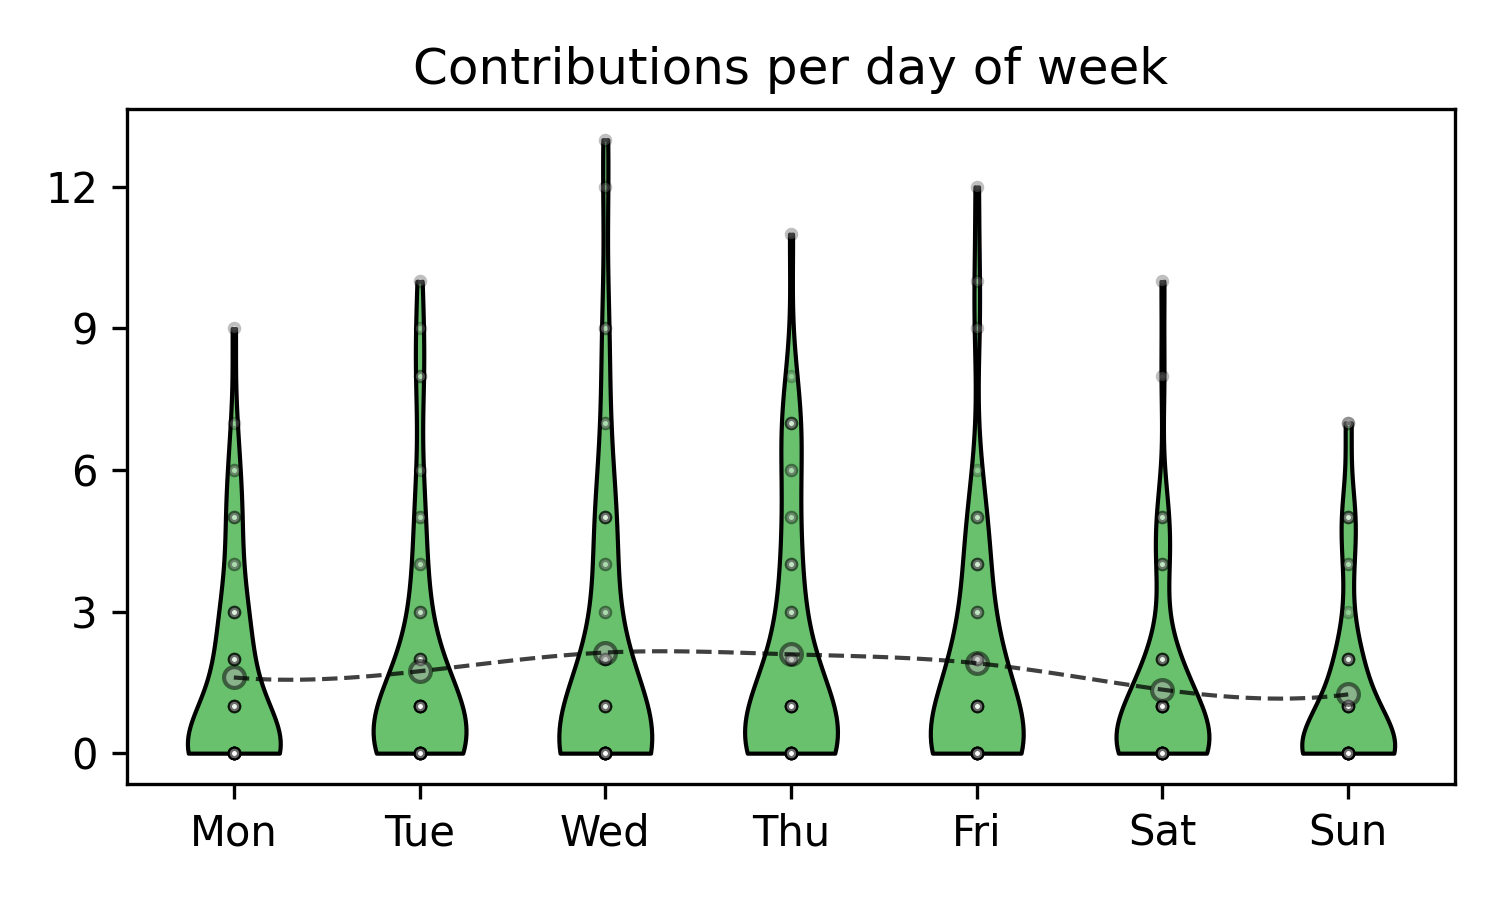
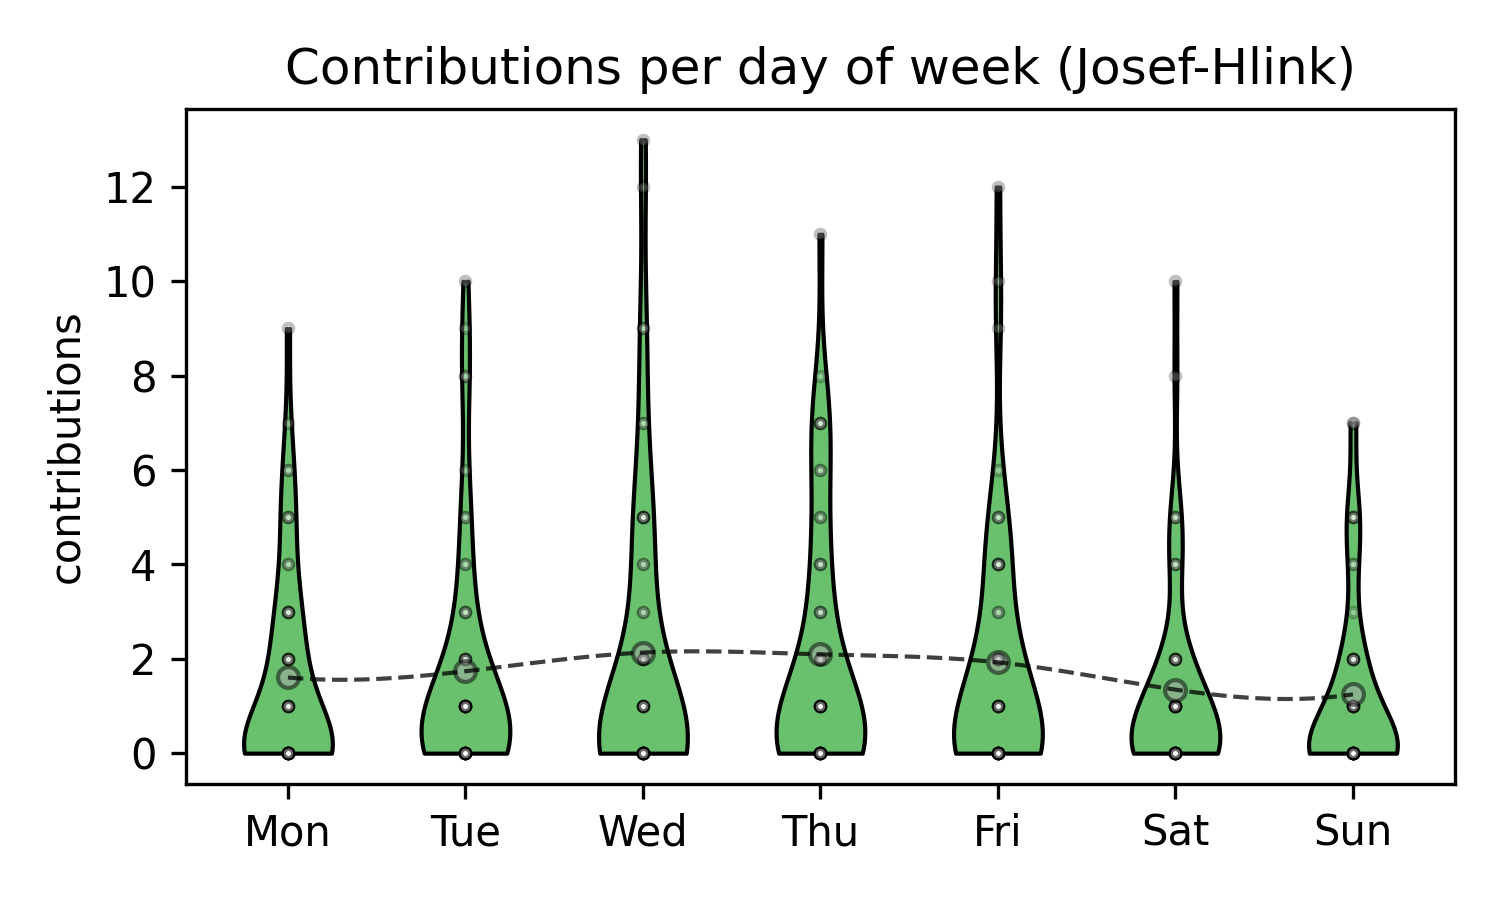
Add argparsing
y axis robustness is also taken into account

diff --git a/main.py b/main.py
@@ -1,3 +1,4 @@
+import argparse
 import requests
 from bs4 import BeautifulSoup
 import pandas as pd
@@ -8,10 +9,16 @@ from scipy.signal import savgol_filter
 
 
 def main() -> None:
-    username = 'Josef-Hlink'
+    
+    parser = argparse.ArgumentParser()
+    parser.add_argument('username', type=str, help='Github username')
+    args = parser.parse_args()
+    username = args.username
+
     contributions = get_contributions(username)
-    plot = plot_contributions(contributions)
+    plot = plot_contributions(contributions, username)
     plot.savefig('contributions.png', dpi=300)
+    
     return
 
 
@@ -41,7 +48,7 @@ def get_contributions(username: str) -> pd.DataFrame:
     return contributions
 
 
-def plot_contributions(contributions: pd.DataFrame) -> plt.Figure:
+def plot_contributions(contributions: pd.DataFrame, username: str) -> plt.Figure:
     """ Create a violinplot where each day of the week is a body  """
     
     contributions['day_of_week'] = contributions.index.dayofweek
@@ -56,8 +63,11 @@ def plot_contributions(contributions: pd.DataFrame) -> plt.Figure:
 
     ax.set_xticks(range(1, 8))
     ax.set_xticklabels(['Mon', 'Tue', 'Wed', 'Thu', 'Fri', 'Sat', 'Sun'])
-    ax.set_yticks(range(0, 15, 3))
-    ax.set_title('Contributions per day of week')
+    ax.set_ylabel('contributions')
+    max_c = contributions['contributions'].max()
+    stepsize = max(max_c // 5, 1)
+    ax.set_yticks(range(0, max_c, stepsize))
+    ax.set_title(f'Contributions per day of week ({username})')
     fig.tight_layout()
 
     return fig
